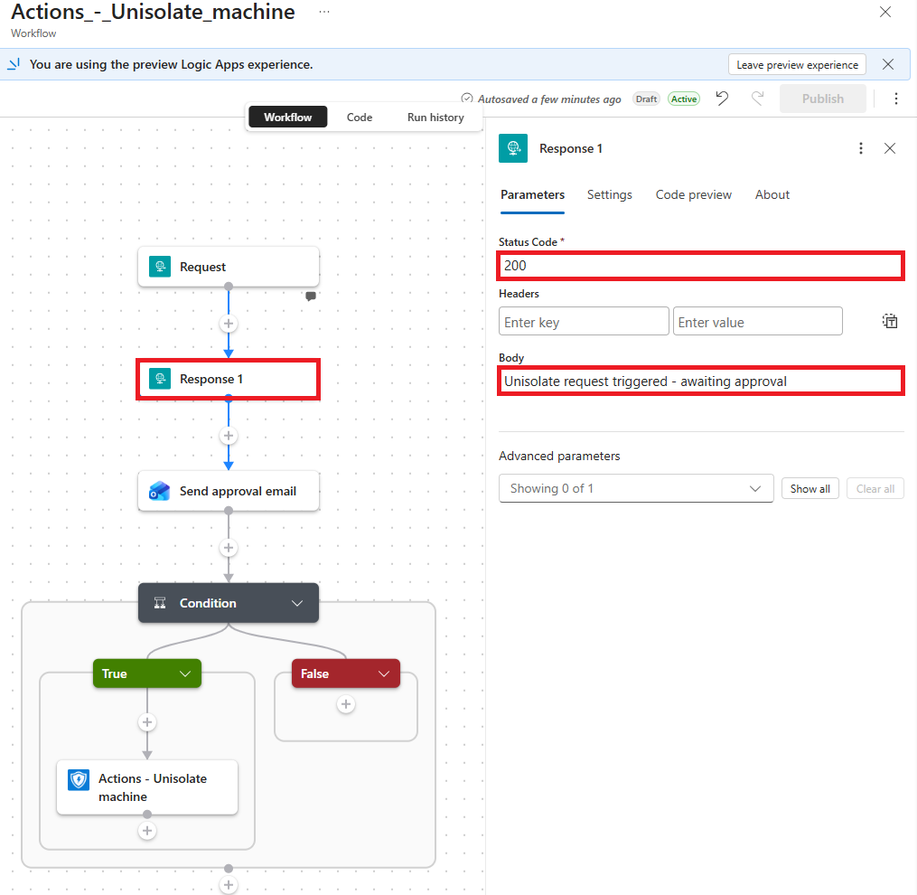
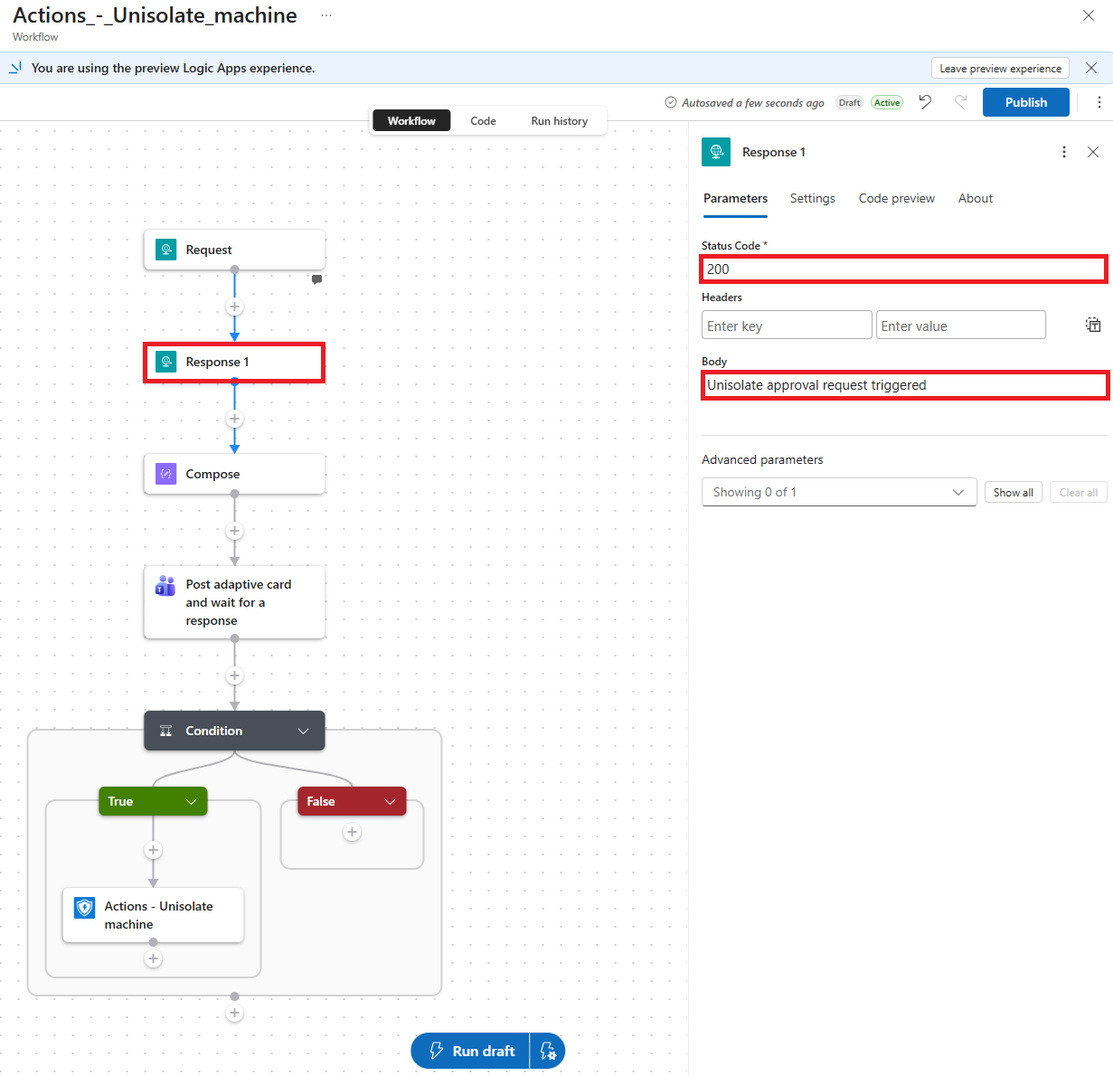
further improvements

diff --git a/_posts/2026-09-22-agentic-incident-response-foundry-logic-apps-human-approval.md b/_posts/2026-09-22-agentic-incident-response-foundry-logic-apps-human-approval.md
@@ -9,42 +9,17 @@ render_with_liquid: false
 
 If you work with Microsoft Sentinel and Defender, you probably already have response playbooks: Teams cards, approval emails, incident updates. When I started giving a Foundry agent response tools, I wondered why I would build a custom MCP server for each action when Logic Apps could expose the workflows I already use.
 
-The setup itself was super straightforward and much more simpler than you may expect. The use case I see is an **autonomous agent** started by a Foundry routine, an external scheduler, or a SOAR playbook. I attached the Microsoft Sentinel data exploration MCP server and 2 Logic App MCP servers to the same agent. Sentinel handles investigation; Logic Apps handles response and human approval.
+The setup itself was super straightforward and much more simpler than you may expect. The use case I see is an **autonomous agent** started by a Foundry routine, an external scheduler, or a SOAR playbook. I attached the Microsoft Sentinel data exploration MCP server and 2 Logic App MCP servers to the same agent. Sentinel handles investigation; Logic Apps handles response and human approval. Of course, the same design principle could also apply to interactive agent scenarios.
 
 ![Autonomous Foundry agent connected to Sentinel and two Logic App MCP servers](/assets/img/posts/agentic-incident-response-foundry-logic-apps-human-approval/agentic-incident-response-foundry-logic-apps-linkedin.png)
 *The full path: an autonomous agent investigates through Sentinel MCP and calls response workflows through Logic Apps MCP.*
 
-```text
-┌──────────┐   ┌──────────────────┐   ┌───────────────┐
-│ Routine  │   │ External trigger │   │ SOAR playbook │
-└────┬─────┘   └────────┬─────────┘   └───────┬───────┘
-     └──────────────────┼─────────────────────┘
-                        ▼
-               ┌──────────────────┐
-               │ Foundry agent    │
-               └────────┬─────────┘
-                        │
-                        │    ┌────────────────────────────────┐
-                        ├──► │ Sentinel data exploration MCP  │
-                        │    └────────────────────────────────┘
-                        │    ┌────────────────────────────────┐
-                        ├──► │ sentinelResponse MCP           ├───┐
-                        │    └────────────────────────────────┘   │
-                        │    ┌────────────────────────────────┐   │
-                        └──► │ defenderDeviceResponse MCP     ├───┤
-                             └────────────────────────────────┘   │
-                                                                  ▼
-                                                     ┌──────────────────────────┐
-                                                     │ One Standard Logic App   │
-                                                     └──────────────────────────┘
-```
-
-That is still **one Standard Logic App**. It can host multiple workflows as usual, expose them as MCP tools, and group those tools into several MCP servers. In my lab, the incident and device servers share one Logic App resource. Microsoft documents [multiple MCP server groups in one Standard Logic App](https://learn.microsoft.com/en-us/azure/logic-apps/create-model-context-protocol-server-standard).
+Even while the above shows 2 Logic App MCP servers, that is still **one Standard Logic App** deployment. It can host multiple workflows as usual, expose them as MCP tools, and group those tools into several MCP servers. In my lab, the incident and device servers share one Logic App resource. Microsoft documents [multiple MCP server groups in one Standard Logic App](https://learn.microsoft.com/en-us/azure/logic-apps/create-model-context-protocol-server-standard).
 
 ![Two MCP servers and their workflow tools in one Standard Logic App](/assets/img/posts/agentic-incident-response-foundry-logic-apps-human-approval/logic-app-mcp-servers.png)
 *My Standard Logic App hosts both `defenderDeviceResponse` and `sentinelResponse`.*
 
-> Microsoft currently documents the Standard Logic Apps MCP server feature as **preview**. I would recheck the setup requirements before promoting this workflow into a production response path. <https://learn.microsoft.com/en-us/azure/logic-apps/create-model-context-protocol-server-standard>
+> Microsoft currently documents the Standard Logic Apps MCP server feature as **preview** as of 2026-09. I would recheck the setup requirements before promoting this workflow into a production response path. <https://learn.microsoft.com/en-us/azure/logic-apps/create-model-context-protocol-server-standard>
 {: .prompt-info}
 
 ## ⏰ How the autonomous agent starts
@@ -72,14 +47,15 @@ The portal itself offers 4 trigger choices. Underneath, these are three types: r
 
 In Sentinel automation, human approval often means a Logic App with a Teams adaptive card or approval email. I kept that familiar step. The agent decides *when* to call the workflow; the workflow still decides whether the action runs. So this offloads the approval gate to existing paradigms.
 
-The Sentinel data exploration collection supplies investigation context, including an incident ARM ID or device name. The Logic App MCP servers supply response actions: 
+> Avoid email-based approvals actions. Email security solutions may interact with approval links during URL inspection, creating a risk of unintended approval processing. For sensitive actions such as device unisolation, prefer Teams Adaptive Card approvals, which require explicit user interaction and provide stronger security and auditability. If email approvals are used, ensure that following the approval link requires authentication and an explicit confirmation step before the action is executed.
+{: .prompt-warning}
 
-- **comment on an incident**
-- **update incident**
-- **isolate a device**
-- **unisolate a device**
+The read-only Sentinel data exploration collection supplies investigation context, including an incident ARM ID or device name. The Logic App MCP servers supply response actions and may need explicit human approval: 
 
-The Sentinel data exploration MCP is read-only. The response actions have separate permissions and may need explicit human approval.
+- `comment on an incident`
+- `update incident`
+- `isolate a device`
+- `unisolate a device`
 
 > The Sentinel data exploration collection is a way to retrieve and analyze data; it does not grant the agent permission to perform response actions. See the [collection's tool list](https://learn.microsoft.com/en-us/azure/sentinel/datalake/sentinel-mcp-graph-tool) and the [Logic Apps MCP guide](https://learn.microsoft.com/en-us/azure/logic-apps/create-model-context-protocol-server-standard).
 {: .prompt-info}
@@ -113,15 +89,15 @@ My agent already has an `allowed_tools` list. For the Logic App MCP tools, you c
 
 For an interactive agent, I could put a human approval step in a Foundry workflow. Its visual builder includes a [**Human in the loop** pattern](https://learn.microsoft.com/en-us/azure/foundry/agents/concepts/workflow) that asks the user and waits for an answer. Foundry also documents a [long-running hosted-agent HITL pattern in preview](https://learn.microsoft.com/en-us/azure/foundry/agents/how-to/add-human-in-the-loop).
 
+In my scenario, the agent runs autonomously, either on a schedule or triggered by a SOAR playbook, while device unisolation is a high-impact action. For that reason, I placed the approval step in the Logic App rather than inside the agent itself. The agent can still execute the investigation and response workflow end-to-end, but the unisolation action is only performed after an explicit approval has been granted.
+
+> Note: Device isolation is typically handled through existing incident response automations, which often follow a "fire first, ask questions later" approach for workstation-based threats.
+{: .prompt-info}
+
 > **Foundry workflow change:** After December 1, 2026, the visual designer and in-portal workflow execution will no longer be supported. Workflow patterns, including human-in-the-loop steps, remain available through code and configuration; Foundry can still run YAML-based workflow definitions deployed as hosted agents. For new work, Microsoft recommends [Agent Framework](https://learn.microsoft.com/en-us/agent-framework/workflows/human-in-the-loop). See the [Foundry migration guide](https://learn.microsoft.com/en-us/azure/foundry/agents/concepts/workflow#migration-guide) for the supported paths.
 {: .prompt-warning}
 
-The [migration guide](https://learn.microsoft.com/en-us/azure/foundry/agents/concepts/workflow#migration-guide) recommends **Agent Framework** for code-first or YAML orchestration deployed as a hosted agent. It also points to **Azure Logic Apps** for visual orchestration that can call Foundry agents, and **A2A** for a simple agent-to-agent handoff. Logic Apps fits this SOC flow because the approval and response connectors are already there and we do not have to re-invent the wheel.
-
-My agent runs autonomously, started by a routine or a SOAR playbook, and **unisolating** a device is a high-impact action. That's why I put the approval inside the Logic App rather than in the agent. The agent can still run end to end on its own and trigger the response, and the action itself only executes once someone has approved it.
-
-> Note: Device isolation should be part of existing automations, and those playbooks usually follow a "fire first, ask later" logic for workstations.
-{: .prompt-info}
+The [migration guide](https://learn.microsoft.com/en-us/azure/foundry/agents/concepts/workflow#migration-guide) recommends **Agent Framework** for code-first or YAML-based orchestration and **Azure Logic Apps** for visual workflow orchestration that invokes Foundry agents. It also points to **A2A** for lightweight agent-to-agent handoffs. For SOC workflows, I currently prefer Logic Apps because approvals, notifications, and connector-based integrations are available out of the box, avoiding the need to reimplement common workflow capabilities.
 
 ## 🛠 Putting it together
 
@@ -137,7 +113,7 @@ The [Standard Logic Apps MCP guide](https://learn.microsoft.com/en-us/azure/logi
 - **Authenticate with Microsoft Entra ID:** configure OAuth with Easy Auth on the Standard Logic App, then set the Foundry MCP connection to use the chosen agent or project identity.
 - **Authenticate with an API key:** generate an MCP API key and send it in the `X-API-Key` header.
 
-> The important thing is that MCP servers in Logic Apps requires HTTP trigger actions to receive requests from the agent. Without an HTTP trigger, the Logic App cannot act as an MCP server.
+> The important thing is that MCP servers in Logic Apps requires HTTP trigger actions to receive requests from the agent. Without an HTTP trigger, the Logic App cannot act as an MCP server and you cannot transition exsiting workflow into MCP tools.
 {: .prompt-warning}
 
 ![Registering a Sentinel response MCP server with connector actions](/assets/img/posts/agentic-incident-response-foundry-logic-apps-human-approval/logic-app-mcp-server-overview-sentinel-responses.png)
@@ -145,7 +121,7 @@ The [Standard Logic Apps MCP guide](https://learn.microsoft.com/en-us/azure/logi
 
 The basic path is short:
 
-1. Create a **new-model agent** in Microsoft Foundry and attach the Sentinel data exploration MCP collection for investigation. New agents receive their own agent identity and stable endpoint without a separate publish step. For autonomous operation, start it from a Foundry routine or external scheduler, or have a SOAR playbook invoke it.
+1. Create a new **agent** in Microsoft Foundry and attach the Sentinel data exploration MCP collection for investigation. New agents receive their own agent identity and stable endpoint without a separate publish step. For autonomous operation, start it from a Foundry routine or external scheduler, or have a SOAR playbook invoke it.
 2. Create a Standard Logic App. Under **Agents > MCP servers**, register the Sentinel and Defender response tools you want the agent to call.
 3. For an existing playbook, make it callable with **When an HTTP request is received**, a useful request schema, and a **Response** action. Give the trigger and its inputs clear descriptions; these become the tool contract the agent sees.
 4. Secure the MCP server, copy its endpoint from the Logic App, and add it to the Foundry agent as a custom MCP tool.
@@ -161,32 +137,32 @@ https://sentinel-incident-response-demo.swedencentral-01.azurewebsites.net/api/m
 https://sentinel-incident-response-demo.swedencentral-01.azurewebsites.net/api/mcpservers/defenderDeviceResponse/mcp
 ```
 
-Copy the actual URL from **MCP servers > Copy URL** in your Logic App and attach it to your Foundry agent as a custom MCP tool or to a toolbox. The workflow's own HTTP trigger URL is a different endpoint.
+Those can you grab from **MCP servers > Copy URL** in your Logic App and attach them to your Foundry agent as custom MCP tools or to a toolbox. The workflow's own HTTP trigger URL is a different endpoint.
 
-Key-based authentication is fine for a quick lab setup: generate an MCP API key in the Logic App and configure the Foundry connection to send it in the `X-API-Key` header. For this autonomous response agent, I would use **Easy Auth** with Microsoft Entra ID on the Standard Logic App.
+Key-based authentication works well for lab environments: generate an MCP API key in the Logic App and send it via the `x-api-key` header from Foundry. For production scenarios, I recommend **Easy Auth** with Microsoft Entra ID on the Standard Logic App to avoid shared secrets and leverage enterprise-grade authentication and authorization.
 
 There are [two distinct Microsoft Entra authentication options in Foundry](https://learn.microsoft.com/en-us/azure/foundry/agents/how-to/mcp-authentication#microsoft-entra-authentication)
 
-- **Agent identity** (`agentic-identity`): use it when a particular agent needs its own access to the response MCP server. This is my choice when different autonomous agents should have different permissions and audit identities. The MCP server and its underlying service must support agent identity authentication, and that agent identity needs the required role assignments.
-- **Project managed identity** (`project-managed-identity`): use it when all agents in the Foundry project should share the same access to that MCP server, or when the server requires a managed identity rather than an agent identity. The project's managed identity needs the required roles on the MCP server's underlying service.
+- **Agent identity** (`agentic-identity`): This is the preferred option and aligns with the new Foundry agent model, where each agent has its own identity from the very beginning without the requirement to publish. It enables per-agent permissions, least-privilege access, and clear audit trails. The MCP server and its underlying service must support agent identity authentication, and the agent identity requires the appropriate role assignments.
+- **Project managed identity** (`project-managed-identity`): Use this when multiple agents should share a common identity, when the target service specifically requires a managed identity, or when agent identity authentication is not supported. The project's managed identity must be granted the necessary permissions.
 
-I keep three identities separate in the design: the Foundry agent identity authenticates to the MCP endpoint, the Logic App's system-assigned managed identity performs the Sentinel and Defender response actions, and the human approver identity supplies the HITL decision. 
+In this approval design I keep 3 identities separate in the design: 
+
+- `the Foundry agent identity authenticates to the MCP endpoint`
+- `the Logic App's system-assigned managed identity performs the Sentinel/Defender response actions`
+- `and the human approver identity supplies the HITL decision.`
 
 > To see how to set up Easy Auth for a Logic Apps MCP server, follow the [Logic Apps MCP guide](https://learn.microsoft.com/en-us/azure/logic-apps/create-model-context-protocol-server-standard#set-up-easy-auth-for-your-mcp-server). 
 {: .prompt-info}
 
 On the Foundry side, set the connection's audience to the application ID URI that Easy Auth accepts, including the trailing slash. Then authorize the identity you chose: if you restrict callers, add its object ID to Easy Auth's allowed identities, and grant any app roles or underlying service access your MCP server needs.
 
-Make sure the Logic App identity is enabled and configure the Microsoft Sentinel connector to use **Connect with managed identity**, then assign the `Microsoft Sentinel Responder` role on the workspace. For Defender actions, configure the proper WindowsATP permissions to the managed identity of the Logic Apps. Also see Microsoft's [Sentinel playbook authentication guidance](https://learn.microsoft.com/en-us/azure/sentinel/automation/authenticate-playbooks-to-sentinel) and [Logic Apps managed identity guidance](https://learn.microsoft.com/en-us/azure/logic-apps/authenticate-with-managed-identity).
+Make sure the Logic App identity is enabled and configure the Microsoft Sentinel connector to use **Connect with managed identity**, then assign the `Microsoft Sentinel Responder` role on the workspace. For Defender actions, configure the proper WindowsDefenderATP permissions to the managed identity of the Logic Apps. Also see Microsoft's [Sentinel playbook authentication guidance](https://learn.microsoft.com/en-us/azure/sentinel/automation/authenticate-playbooks-to-sentinel) and [Logic Apps managed identity guidance](https://learn.microsoft.com/en-us/azure/logic-apps/authenticate-with-managed-identity).
 
-The portal-created connector workflows already have the HTTP request and response shape. For existing workflows, Microsoft documents the required Request/Response pattern and hosting requirements in the [Standard Logic Apps MCP guide](https://learn.microsoft.com/en-us/azure/logic-apps/create-model-context-protocol-server-standard). The exact tool names and descriptions matter: "update incident" is much more useful to an agent when the input says which incident identifier it expects and what fields it changes. For the native Connectors you do not have to provide any thing - the connector itself already defines the request and response schema and thus the proper MCP tool names and descriptions out of the box. Easy one :-)
+Then remember the HTTP request trigger requirement. The portal-created connector workflows already have the HTTP request and response shape. For existing workflows, Microsoft documents the required Request/Response pattern and hosting requirements in the [Standard Logic Apps MCP guide](https://learn.microsoft.com/en-us/azure/logic-apps/create-model-context-protocol-server-standard). The exact tool names and descriptions matter: "update incident" is much more useful to an agent when the input says which incident identifier it expects and what fields it changes. For the native Connectors you do not have to provide any thing - the connector itself already defines the request and response schema and thus the proper MCP tool names and descriptions out of the box. Easy one 😊
 
-> Keep in mind: Only HTTP based Logic App workflows are MCP compatible.
+> Reminder: Only HTTP based Logic App workflows are MCP compatible.
 {: .prompt-warning}
-
-The portal-created connector workflows already have the HTTP request and response shape. For existing workflows, Microsoft documents the required Request/Response pattern and hosting requirements in the [Standard Logic Apps MCP guide](https://learn.microsoft.com/en-us/azure/logic-apps/create-model-context-protocol-server-standard). The exact tool names and descriptions matter: "update incident" is much more useful to an agent when the input says which incident identifier it expects and what fields it changes. 
-
-For native connectors such as the ones we use (Sentinel, Defender) this comes out of the box: the connector already defines the request and response schema, and the tool descriptions are prefilled from it. I would still review them and sharpen the ones your agent relies on most or enhance based on your specific needs. Almost an easy one 😊
 
 ![Logic App workflow with an HTTP Request trigger and described JSON inputs](/assets/img/posts/agentic-incident-response-foundry-logic-apps-human-approval/logic-app-workflow-with-http-trigger-and-json-schema-to-describe-tools.png)
 *The Request schema gives the comment tool an incident ARM ID and message, with descriptions the agent can use.*
@@ -195,13 +171,16 @@ With the tools attached, the agent chooses among them based on their description
 
 ## 🤖 New Agent Object Model
 
-When I started working more heavily with Foundry agents about six months ago, the identity model confused me, especially how it interacts with MCP authentication. When should I use the shared project identity, and when the agent's own identity? I tried the agent identity first, but it didn't work. So I assigned permissions to the shared project identity instead, and later learned that an agent only gets its own identity once it's published. For agents that run as part of SOAR or an agentic SOC, publishing isn't something you'd normally do.
+When I started working extensively with Foundry agents about six months ago, the identity model was one of the areas that caused the most confusion, especially when combined with MCP authentication. When should I use the shared project identity, and when should I use an agent's own identity?
 
-> **Fun fact:** This confused me for quite a while. My main workload was hosted agents, but for quick ad hoc tests I still used prompt agents because they were convenient. When I finally checked, some of the agents I used most were still on the old object model, while newer ones were already on the new one. At one point I simply assigned the permissions to both the per-agent identity and the shared project identity and moved on. Not elegant, but it saved me from chasing the wrong identity again. Now I know what was causing the confusion 😅
+My first instinct was to use the agent identity, but it didn't work all the time this way. After some troubleshooting, I granted permissions to the project's managed identity instead, which resolved the issue. Later, I discovered that some agents only received their own identity after being published. For SOAR and agentic SOC scenarios, publishing agents is not typically part of the deployment model, so this behavior wasn't immediately obvious.
 
-That mix of old and new agents was exactly what I was missing when I started on agentic SOC designs. With the new model, I can keep several autonomous agents in one Foundry project and grant each agent identity only the access its Logic App MCP tools require. I no longer need a separate project just to limit the blast radius of the old shared identity.
+> **Fun fact:** This confused me for quite a while. Most of my work focused on hosted agents, but for quick ad hoc testing I often used prompt agents because they were convenient. Eventually, I realized that some of the agents I was testing still used the legacy agent object model, while newer ones were already based on the new model. At one point, I simply assigned permissions to both the per-agent identity and the project managed identity to avoid chasing authentication issues. Not particularly elegant, but it worked and kept me moving forward until I understood what was happening 😅
+{: .prompt-info}
 
-I do not exactly know when this change in the agent object model was introduced, but it certainly caused confusion for me when I was trying to understand the identity requirements for different types of agents. I have seen something for hosted agents in April 2026 with transition time to the new agent for July 2026 - maybe it finally land in my tenant so even this time. 
+That mix of legacy and new agent models was exactly what I was missing when I started designing agentic SOC architectures. With the new model, each agent receives its own identity from the outset, allowing multiple autonomous agents to coexist within the same Foundry project while maintaining separate permissions. This enables a true least-privilege approach and I no longer need to create separate projects purely to reduce the blast radius of a shared project identity.
+
+I am not entirely sure when Microsoft introduced this change to the agent object model to become the new default. I first noticed references to the new experience around April 2026, along with guidance to transition by July 2026. However, I still encountered agents created in July that were based on the legacy model, which added to the confusion when trying to understand the identity requirements across different agent types. Looking back, many of the authentication issues I experienced were not caused by MCP itself, but by the fact that both identity models coexisted during the transition period and I was not aware that there are 2 different agents object models.
 
 But anyway, the MCP connection types themselves haven't changed. What changed is how an agent gets its identity: a new-model agent gets its own identity at creation, while a legacy agent may keep using the shared project identity until you recreate it. **At the time of writing**, the MCP authentication page still uses the older before/after-publish wording, so check the [migration guidance](https://learn.microsoft.com/en-us/azure/foundry/agents/how-to/migrate-agent-applications) to see which identity your agent actually has.
 
@@ -227,7 +206,7 @@ The fix is an early HTTP response. It tells the agent that its request was recei
 > **The early reply addresses the MCP/HTTP deadline, not the full Logic App run.** Once the Logic App sends its Response, the tool call ends and the **same stateful run continues waiting for approval**. Give that approval its own deadline, shorter than both the run limit and the approval action's own timeout. [Logic Apps Request/Response behavior](https://learn.microsoft.com/en-us/azure/logic-apps/logic-apps-http-endpoint#respond-to-requests) · [run-duration limits](https://learn.microsoft.com/en-us/azure/logic-apps/logic-apps-limits-and-config#run-duration-and-history-retention-limits)
 {: .prompt-tip}
 
-I return **pending** well inside the 100-second MCP limit. Foundry documents [background mode for long-running MCP tasks](https://learn.microsoft.com/en-us/azure/foundry/agents/how-to/tools/model-context-protocol#long-running-operations-preview), but it requires MCP tasks support; I have not verified that capability on a Logic App-generated server.
+By this you can return **pending** or whatever response you want back to the agent well inside the 100-second MCP limit. Foundry documents [background mode for long-running MCP tasks](https://learn.microsoft.com/en-us/azure/foundry/agents/how-to/tools/model-context-protocol#long-running-operations-preview), but it requires MCP tasks support which I have not verified that capability on a Logic App-generated server.
 
 A [long-running hosted agent](https://learn.microsoft.com/en-us/azure/foundry/agents/concepts/long-running-agent-resilience) can continue after its initiating request disconnects when configured for resilient background execution. That does not extend the Logic App's [run duration](https://learn.microsoft.com/en-us/azure/logic-apps/logic-apps-limits-and-config#run-duration-and-history-retention-limits). I would let a later agent run check the outcome instead of keeping one MCP call open for the whole approval.
 
